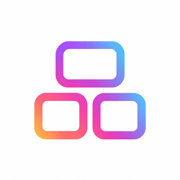
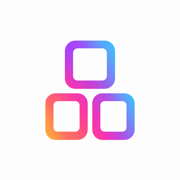
fix(brand): 改用紧凑圆润的品字图标

Changed region(s): [[0.1667, 0.2222, 0.8333, 0.7778]]

diff --git a/extracted/media-workbench/index.html b/extracted/media-workbench/index.html
@@ -8,10 +8,10 @@
   <meta name="viewport" content="width=device-width, initial-scale=1, viewport-fit=cover" />
   <title>离火品宣</title>
   <!-- PWA：可安装成桌面/手机应用 -->
-  <link rel="manifest" href="/manifest.json?v=20261116" />
-  <link rel="icon" href="/icon-32.png?v=20261116" sizes="32x32" type="image/png" />
-  <link rel="icon" href="/icon-192.png?v=20261116" sizes="192x192" type="image/png" />
-  <link rel="apple-touch-icon" href="/icon-180.png?v=20261116" sizes="180x180" />
+  <link rel="manifest" href="/manifest.json?v=20261116-2" />
+  <link rel="icon" href="/icon-32.png?v=20261116-2" sizes="32x32" type="image/png" />
+  <link rel="icon" href="/icon-192.png?v=20261116-2" sizes="192x192" type="image/png" />
+  <link rel="apple-touch-icon" href="/icon-180.png?v=20261116-2" sizes="180x180" />
   <meta name="theme-color" content="#7950ae" />
   <meta name="apple-mobile-web-app-capable" content="yes" />
   <meta name="apple-mobile-web-app-title" content="离火品宣" />
@@ -291,7 +291,7 @@
 <!-- Login -->
 <div id="login-screen">
   <div class="login-box">
-    <div class="login-brand"><img src="assets/brand-logo.png?v=20261116" width="60" height="60" alt="品牌标识" /><div><div class="login-logo">离火品宣</div><div class="login-sub">内部管理系统 · BRAND OPS</div></div></div>
+    <div class="login-brand"><img src="assets/brand-logo.png?v=20261116-2" width="60" height="60" alt="品牌标识" /><div><div class="login-logo">离火品宣</div><div class="login-sub">内部管理系统 · BRAND OPS</div></div></div>
     <label for="login-identity">选择身份</label>
     <select id="login-identity" style="width:100%;background:var(--bg-base);border:1px solid var(--border);border-radius:var(--radius-sm);color:var(--text-primary);padding:11px 14px;font-size:.95rem;font-family:inherit;outline:none;margin-bottom:16px;cursor:pointer">
       <option value="admin">👑 管理员</option>
@@ -309,7 +309,7 @@
 
   <aside class="sidebar" id="sidebar" aria-label="应用导航">
     <div class="sidebar-logo">
-      <div class="sidebar-logo-frame"><img src="assets/brand-logo.png?v=20261116" alt="品牌标识" class="sidebar-logo-icon" /></div>
+      <div class="sidebar-logo-frame"><img src="assets/brand-logo.png?v=20261116-2" alt="品牌标识" class="sidebar-logo-icon" /></div>
       <div class="sidebar-logo-txt">离火品宣<span>BRAND OPS</span></div>
       <button type="button" class="ui-icon-button ui-desktop-collapse" id="ui-sidebar-collapse" aria-controls="sidebar" aria-expanded="true" aria-label="收起导航" onclick="BrandUI.toggleDesktop()"><span data-ui-icon="panel"></span></button>
       <button type="button" class="ui-icon-button ui-sidebar-close" aria-label="关闭导航" onclick="closeSidebar()"><span data-ui-icon="close"></span></button>

diff --git a/HANDOFF.md b/HANDOFF.md
@@ -70,7 +70,7 @@
 ## 5. 其它约定
 
 - 用户无编程基础：**改代码前先说明方案，用户回复单独的 `0` 才动手**；回复简短；界面电脑和手机都要照顾
-- 图标：现采用用户确认的白底渐变圆角线条“品”字，登录/侧栏与桌面/浏览器统一；以确认原图等比缩放并保留白边。不要恢复旧红底56%方案。更新资源时同步版本标记；已安装PWA的图标刷新时机由浏览器和系统决定，必要时重新安装快捷入口。
+- 图标：现采用用户确认的紧凑比例、白底渐变圆润线条“品”字，登录/侧栏与桌面/浏览器统一；以确认原图等比缩放并保留白边。不要恢复旧红底56%方案。更新资源时同步版本标记；已安装PWA的图标刷新时机由浏览器和系统决定，必要时重新安装快捷入口。
 - 本机没有 PIL/ImageMagick，做图用浏览器 Canvas + sips
 
 ## 6. 已知问题 / 待办
@@ -80,6 +80,8 @@
 - 仓库里残留不少调试文件（fix*.ps1、check-*.js、debug*.html、index.html.backup），已在 .gitignore，可清理
 
 ## 7. 更新日志（新的在上）
+
+- 2026-11-16：用户确认采用收窄后的圆润线条“品”字，替换前一版偏宽图形。保留白底与紫蓝粉橙渐变，按确认原图等比导出登录/侧栏和32/180/192/512应用图标；图标与manifest版本更新为20261116-2。仅替换图片与缓存引用，沿用现有尺寸、布局及业务逻辑。
 
 - 2026-11-16：用户确认采用白底、紫蓝粉橙渐变圆角线条“品”字图标。统一登录页、侧栏、浏览器标签、Apple触屏及PWA安装图标；从确认的原图等比导出32/180/192/512尺寸，保留白边；图标与manifest引用增加20261116版本标记以刷新资源。已安装应用的图标更新受浏览器/系统缓存影响。仅品牌素材和引用调整，不修改业务逻辑。
 
